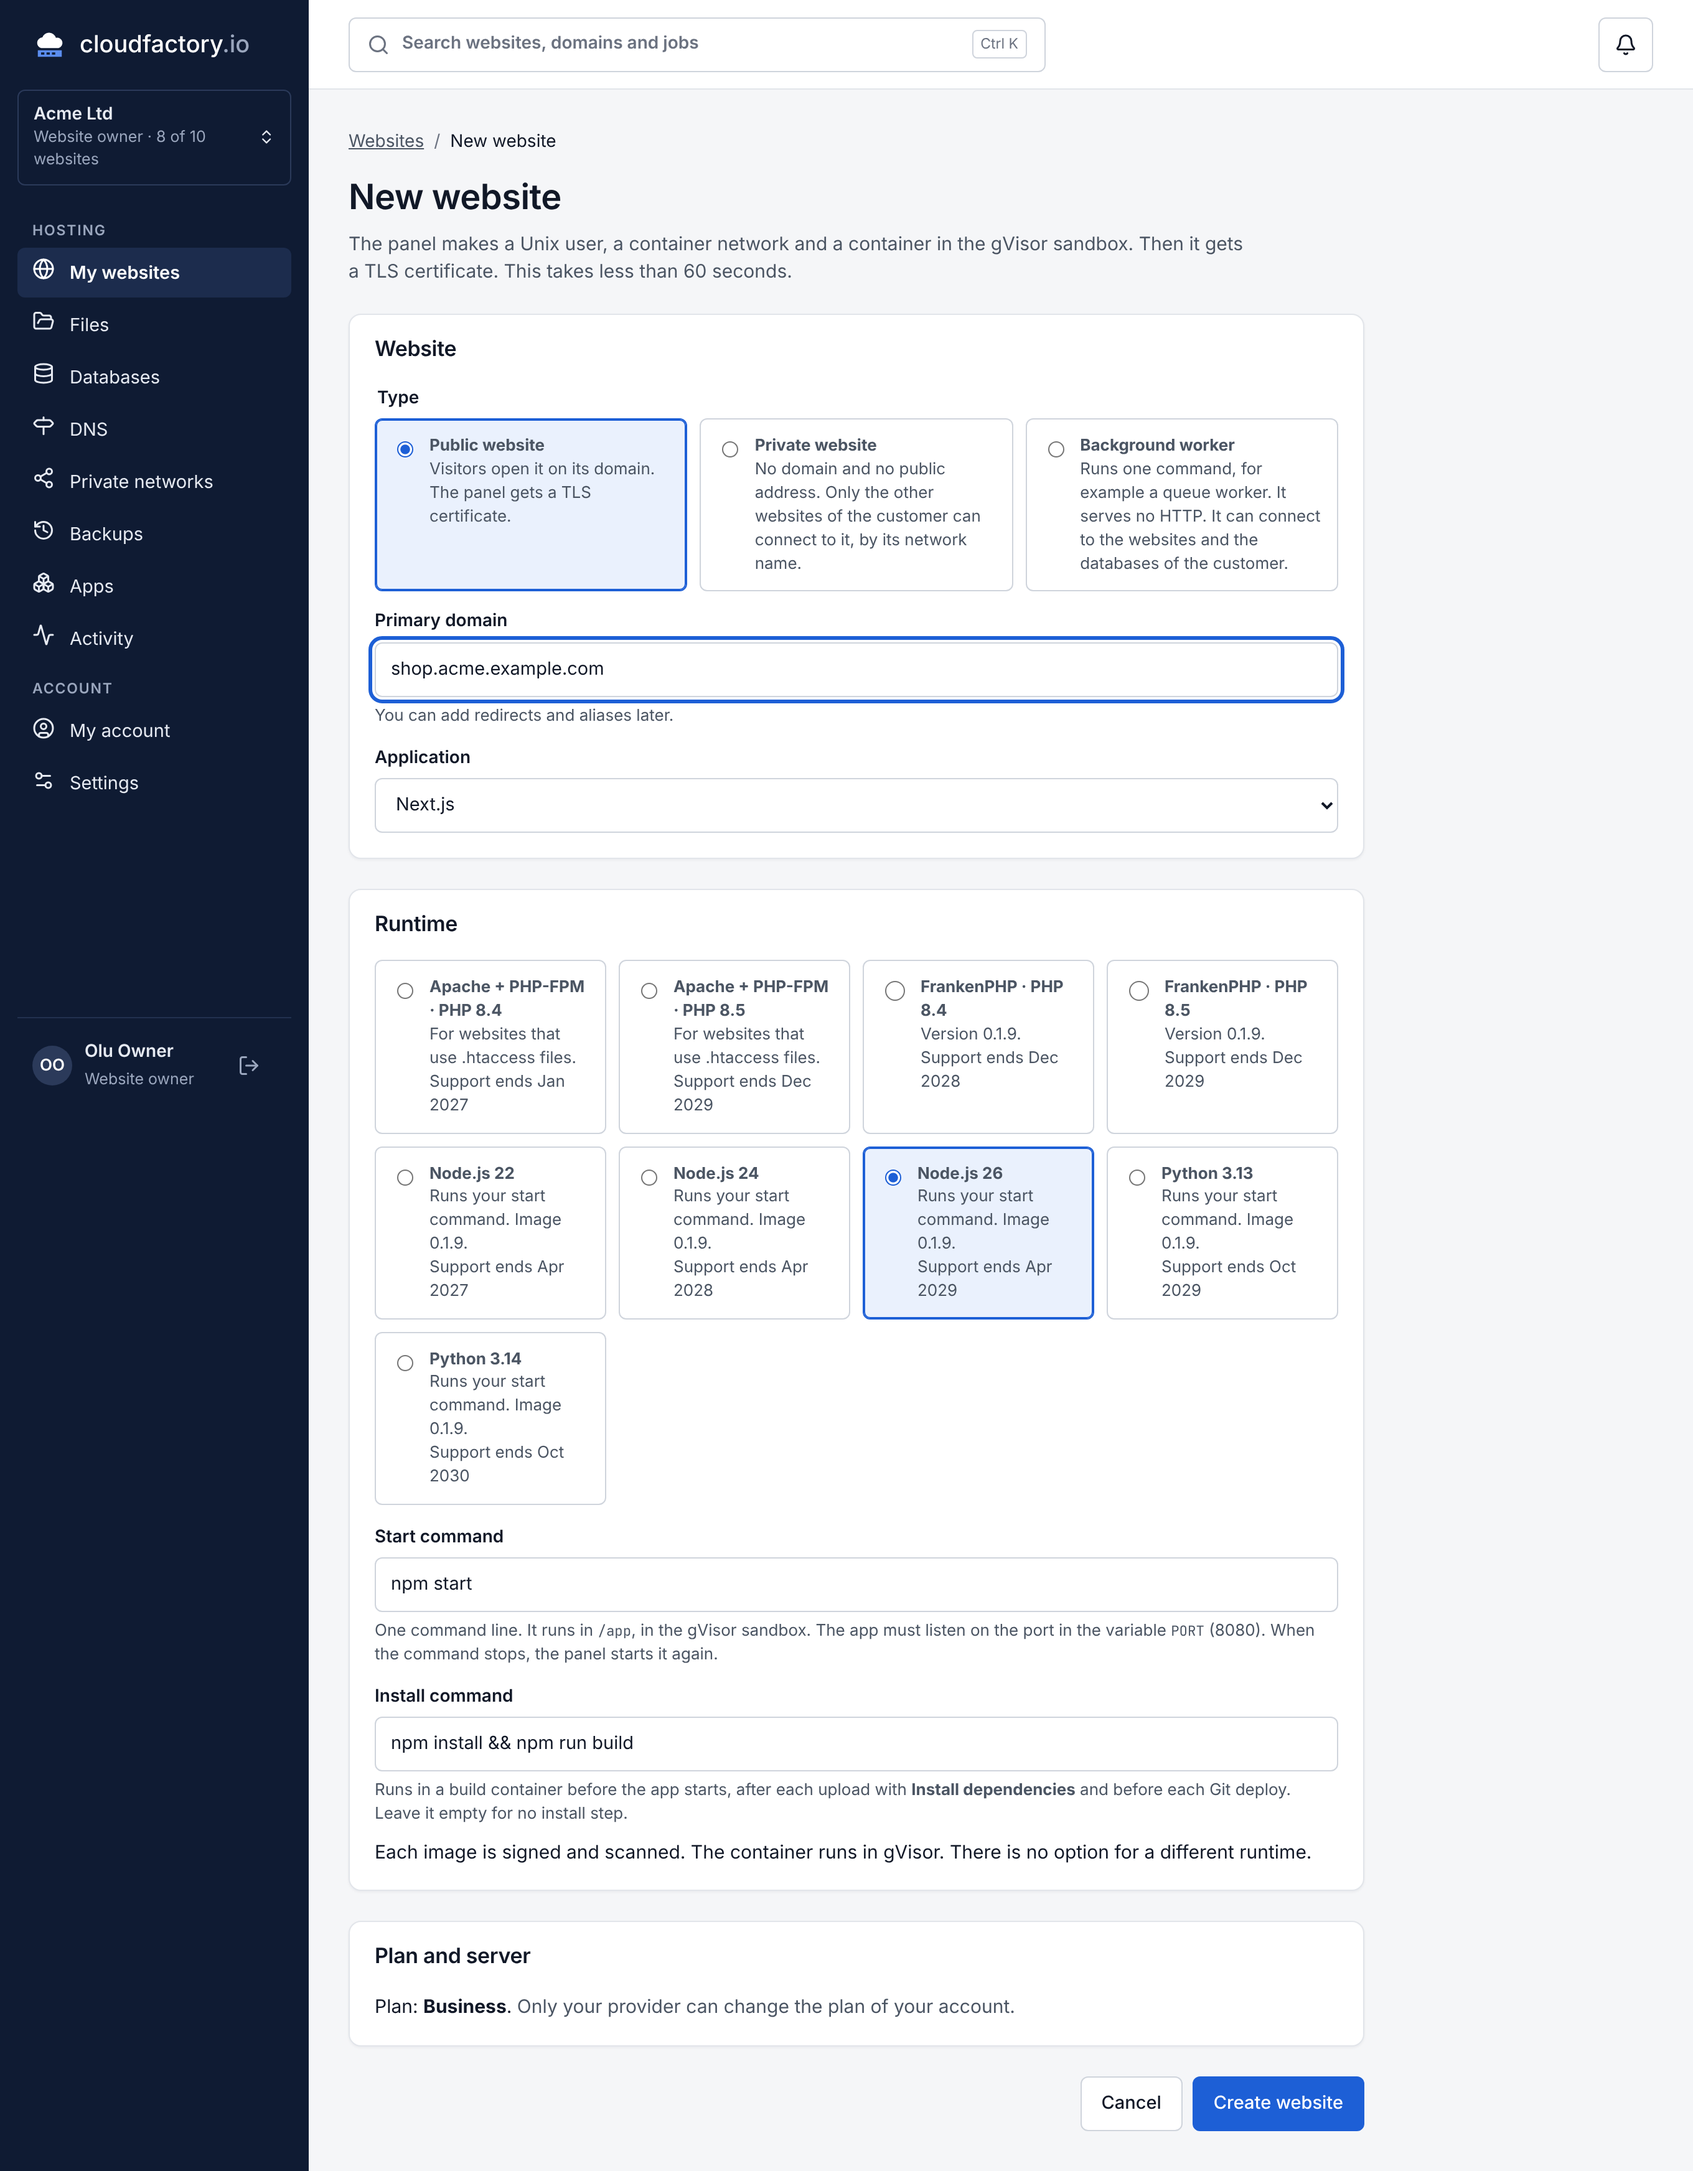
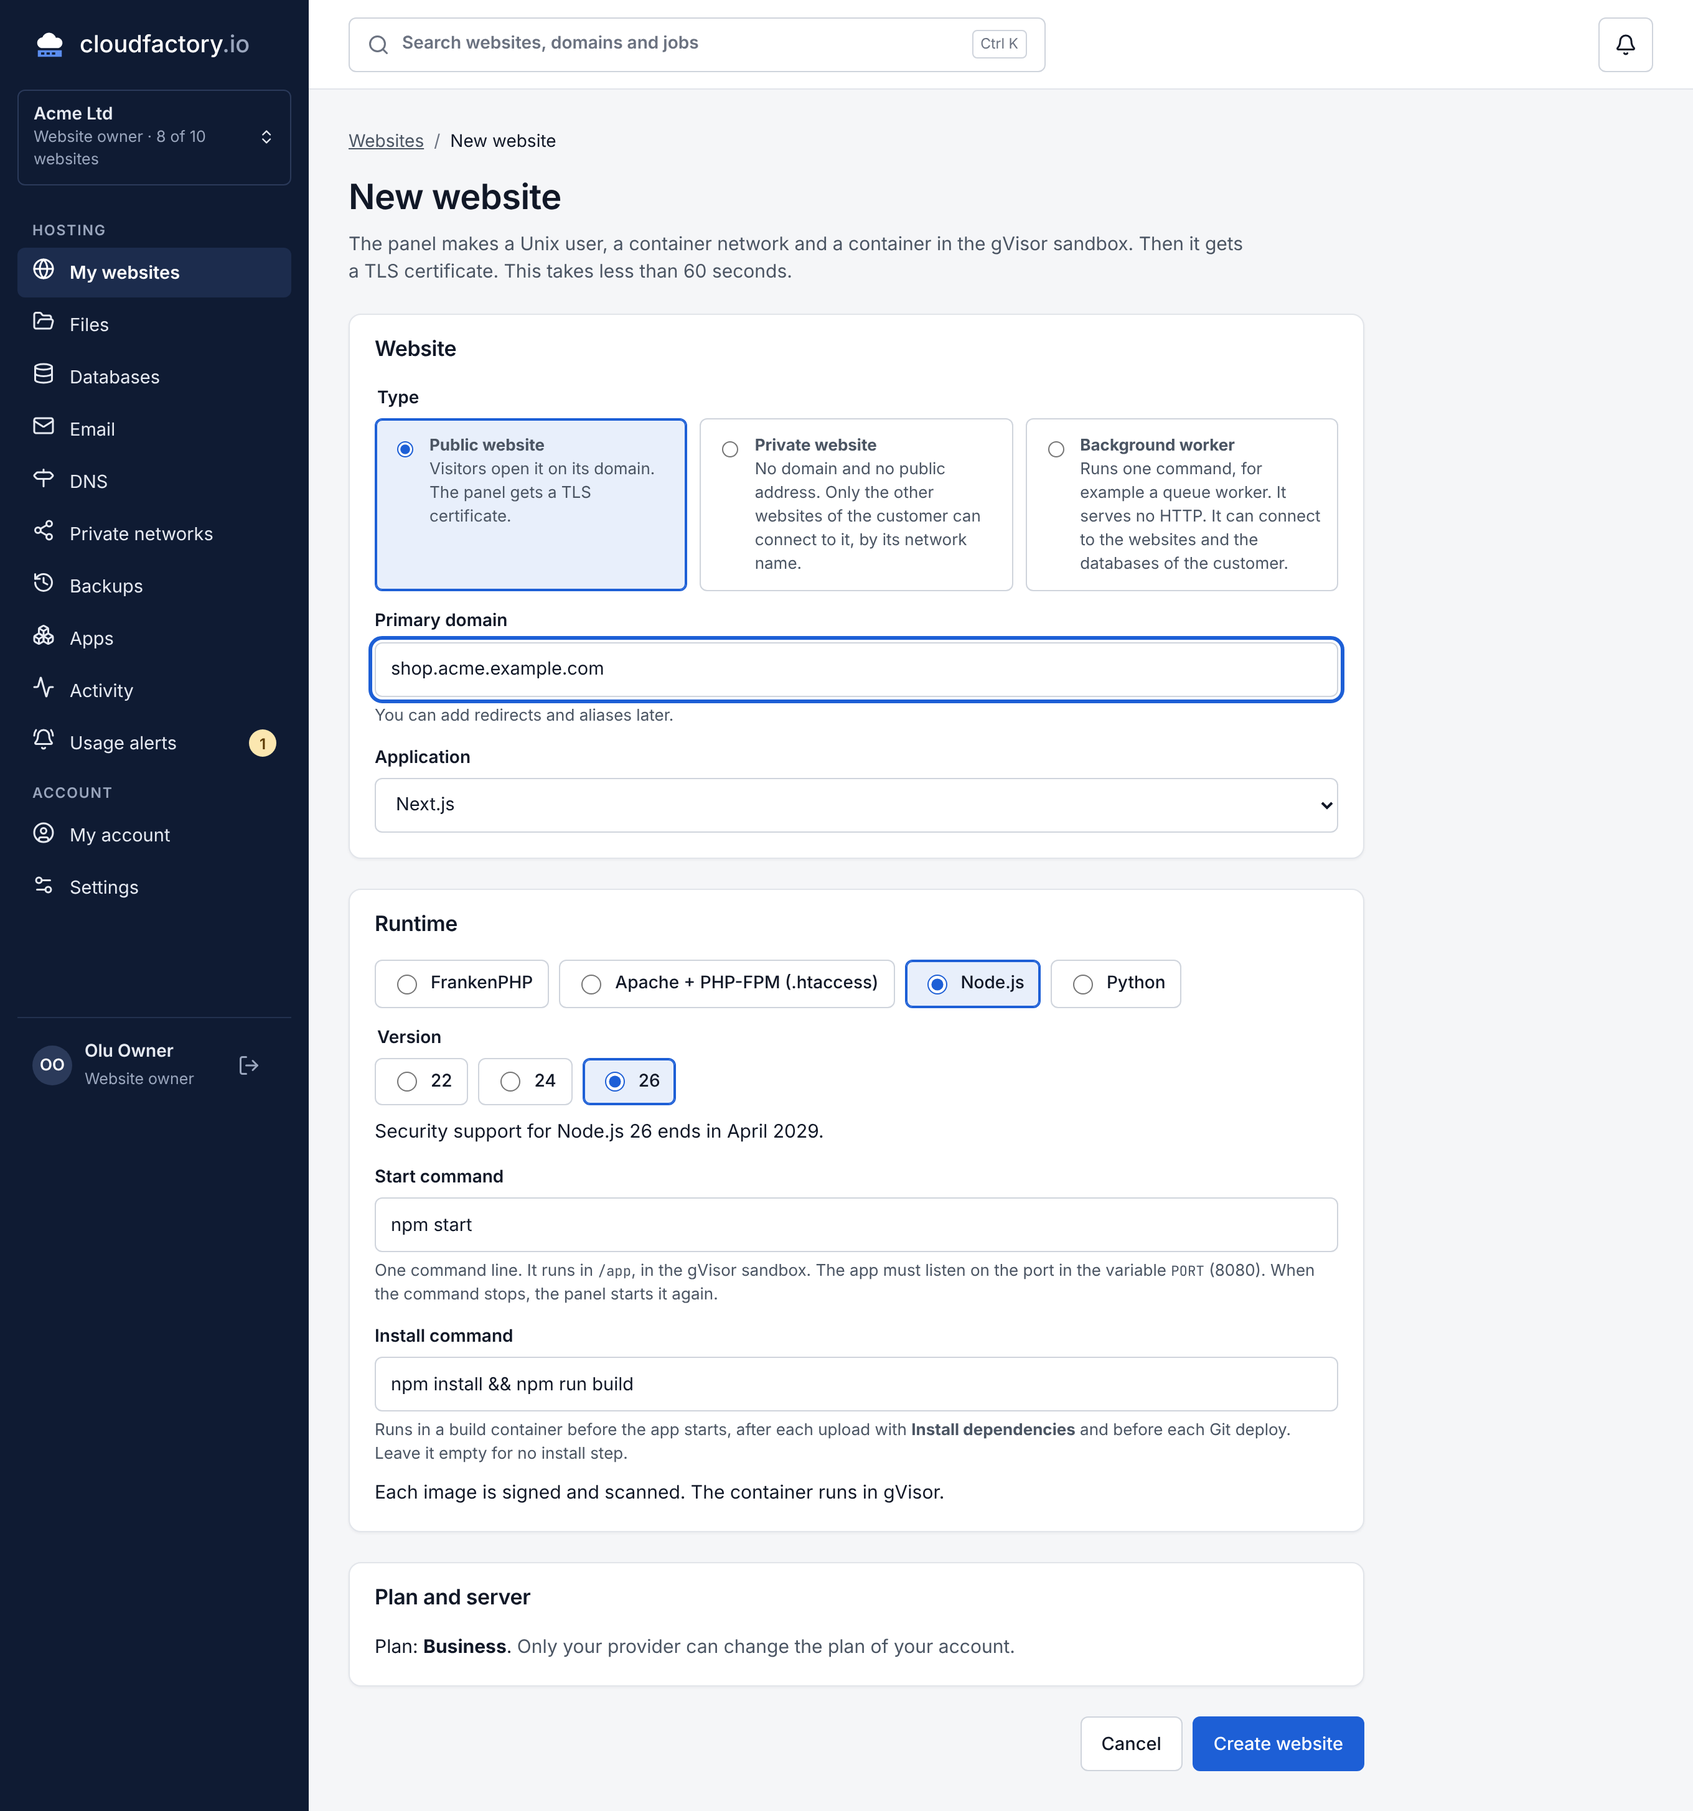
Group the runtimes on the new website page by runtime and version
The page showed one large card for each image. Now it shows one small option for each
runtime, then the versions of that runtime. The image tag and the descriptions are gone.

Claude-Session: https://claude.ai/code/session_016DWqw72coS115o8Y3pcxTp

diff --git a/web/src/pages/NewWebsitePage.tsx b/web/src/pages/NewWebsitePage.tsx
@@ -39,6 +39,33 @@ const PRESETS: Record<string, { command?: string; install?: string }> = {
   FastAPI: { command: "uvicorn main:app --host 0.0.0.0 --port $PORT" },
 };
 
+/** The runtimes of one kind, for example all the versions of Node.js. An own image is a group of one. */
+interface RuntimeGroup { key: string; title: string; images: RuntimeImage[] }
+
+const GROUP_TITLE: Partial<Record<RuntimeImage["family"], string>> = {
+  frankenphp: "FrankenPHP", "apache-php-fpm": "Apache + PHP-FPM (.htaccess)", node: "Node.js", python: "Python", edge: "Static files",
+};
+
+/** The version of the language of an image, for example "PHP 8.5" or "24". */
+const versionOf = (i: RuntimeImage) => (i.phpVersion ? `PHP ${i.phpVersion}` : i.version ?? i.name);
+
+/** Puts the images in groups, so that the page shows one option for each runtime and then its versions. */
+export function runtimeGroups(images: RuntimeImage[]): RuntimeGroup[] {
+  const groups: RuntimeGroup[] = [];
+  for (const i of images) {
+    const key = i.custom || !GROUP_TITLE[i.family] ? i.id : i.family;
+    const group = groups.find((g) => g.key === key);
+    if (group) group.images.push(i);
+    else groups.push({ key, title: key === i.id ? i.name : GROUP_TITLE[i.family]!, images: [i] });
+  }
+  // The order of GROUP_TITLE, then the own images.
+  const order = Object.keys(GROUP_TITLE);
+  const rank = (g: RuntimeGroup) => (order.includes(g.key) ? order.indexOf(g.key) : order.length);
+  groups.sort((a, b) => rank(a) - rank(b));
+  for (const g of groups) g.images.sort((a, b) => versionOf(a).localeCompare(versionOf(b), undefined, { numeric: true }));
+  return groups;
+}
+
 /** True for an image that runs the start command of the website: Node.js or Python. */
 export const isAppImage = (i: RuntimeImage | undefined) => !!i && !i.custom && (i.family === "node" || i.family === "python");
 
@@ -65,6 +92,8 @@ export function NewWebsitePage() {
   const choosePlan = platform || state.session.user.role === "administrator";
   const [imageId, setImageId] = useState(() => defaultImage(runtimes, "frankenphp"));
   const image = runtimes.find((i) => i.id === imageId);
+  const groups = runtimeGroups(runtimes);
+  const group = groups.find((g) => g.images.some((i) => i.id === imageId));
   const app = isAppImage(image);
   // The commands of a Node.js or Python website. Null: the preset of the application or the default of the image.
   const [appCommand, setAppCommand] = useState<string | null>(null);
@@ -185,21 +214,29 @@ export function NewWebsitePage() {
           </Card>
           <Card title="Runtime">
             <div className="card-body">
-              <fieldset className="radio-cards">
-                <legend className="visually-hidden">Runtime image</legend>
-                {runtimes.map((i) => (
-                  <label key={i.id} className="radio-card">
-                    <input type="radio" name="runtime" value={i.id} checked={imageId === i.id} onChange={() => setImageId(i.id)} />
-                    <span>
-                      <strong>{i.name}</strong>
-                      <span>
-                        {i.family === "apache-php-fpm" ? "For websites that use .htaccess files." : i.family === "edge" ? "Static files. No container code." : i.custom ? "Your own OCI image." : isAppImage(i) ? `Runs your start command. Image ${i.running}.` : `Version ${i.running}.`}
-                        {i.supportEndsAt && <span className="note-warning" style={{ display: "block" }}>Support ends {new Date(i.supportEndsAt).toLocaleDateString("en-GB", { month: "short", year: "numeric" })}</span>}
-                      </span>
-                    </span>
-                  </label>
-                ))}
-              </fieldset>
+              <div className="runtime-picker">
+                <fieldset className="radio-cards radio-cards-compact">
+                  <legend className="visually-hidden">Runtime</legend>
+                  {groups.map((g) => (
+                    <label key={g.key} className="radio-card">
+                      <input type="radio" name="runtime" checked={g.key === group?.key} onChange={() => setImageId(defaultImage(g.images, g.images[0].family))} />
+                      <strong>{g.title}</strong>
+                    </label>
+                  ))}
+                </fieldset>
+                {group && group.images.length > 1 && (
+                  <fieldset className="radio-cards radio-cards-compact">
+                    <legend>Version</legend>
+                    {group.images.map((i) => (
+                      <label key={i.id} className="radio-card">
+                        <input type="radio" name="version" value={i.id} checked={imageId === i.id} onChange={() => setImageId(i.id)} aria-label={i.name} />
+                        <strong>{versionOf(i)}</strong>
+                      </label>
+                    ))}
+                  </fieldset>
+                )}
+              </div>
+              {image?.supportEndsAt && <p className="hint" style={{ marginTop: 10 }}>Security support for {image.name} ends in {new Date(image.supportEndsAt).toLocaleDateString("en-GB", { month: "long", year: "numeric" })}.</p>}
               {app && (
                 <div style={{ marginTop: 16 }}>
                   <Field label="Start command" hint={<>One command line. It runs in <code>/app</code>, in the gVisor sandbox. {kind === "worker" ? "" : <>The app must listen on the port in the variable <code>PORT</code> (8080). </>}When the command stops, the panel starts it again.</>} error={err.command}>
@@ -210,7 +247,7 @@ export function NewWebsitePage() {
                   </Field>
                 </div>
               )}
-              <p className="hint" style={{ marginTop: 10 }}>Each image is signed and scanned. The container runs in gVisor. There is no option for a different runtime.</p>
+              <p className="hint" style={{ marginTop: 10 }}>Each image is signed and scanned. The container runs in gVisor.</p>
             </div>
           </Card>
           <Card title="Plan and server">

diff --git a/web/src/styles/app.css b/web/src/styles/app.css
@@ -642,6 +642,12 @@ a.cell-title:hover { text-decoration: underline; }
 .radio-card { display: flex; gap: 10px; padding: 12px; border: 1px solid var(--border-strong); border-radius: var(--radius-sm); cursor: pointer; }
 .radio-card:has(input:checked) { border-color: var(--primary); background: var(--primary-soft); box-shadow: inset 0 0 0 1px var(--primary); }
 .radio-card input { margin-top: 3px; accent-color: var(--primary); width: 18px; height: 18px; }
+/* Small options on one line, for example the runtime and its version on the new website page. */
+.radio-cards-compact { display: flex; flex-wrap: wrap; gap: 8px; }
+.radio-cards-compact .radio-card { align-items: center; padding: 8px 12px; gap: 8px; }
+.radio-cards-compact .radio-card input { margin-top: 0; width: 16px; height: 16px; }
+.radio-cards-compact .radio-card strong { font-size: 14px; font-weight: 500; }
+.runtime-picker { display: grid; gap: 14px; }
 .radio-card-disabled { cursor: not-allowed; color: var(--text-subtle); background: var(--surface-muted); }
 .radio-card strong { display: block; }
 .radio-card span { color: var(--text-muted); font-size: 13px; }

diff --git a/web/src/pages/website/RuntimeTab.tsx b/web/src/pages/website/RuntimeTab.tsx
@@ -56,7 +56,7 @@ export function RuntimeTab({ website }: { website: Website }) {
                   <span>
                     <strong>{i.name}</strong>
                     <span>
-                      {i.id === website.runtime.imageId ? "Current · " : ""}{isApp ? `Image ${i.running}` : i.running}
+                      {isApp ? (i.id === website.runtime.imageId ? "Current" : "") : `${i.id === website.runtime.imageId ? "Current · " : ""}${i.running}`}
                       {i.supportEndsAt && <span className="note-warning" style={{ display: "block" }}>Support ends {longDate(i.supportEndsAt)}</span>}
                     </span>
                   </span>
